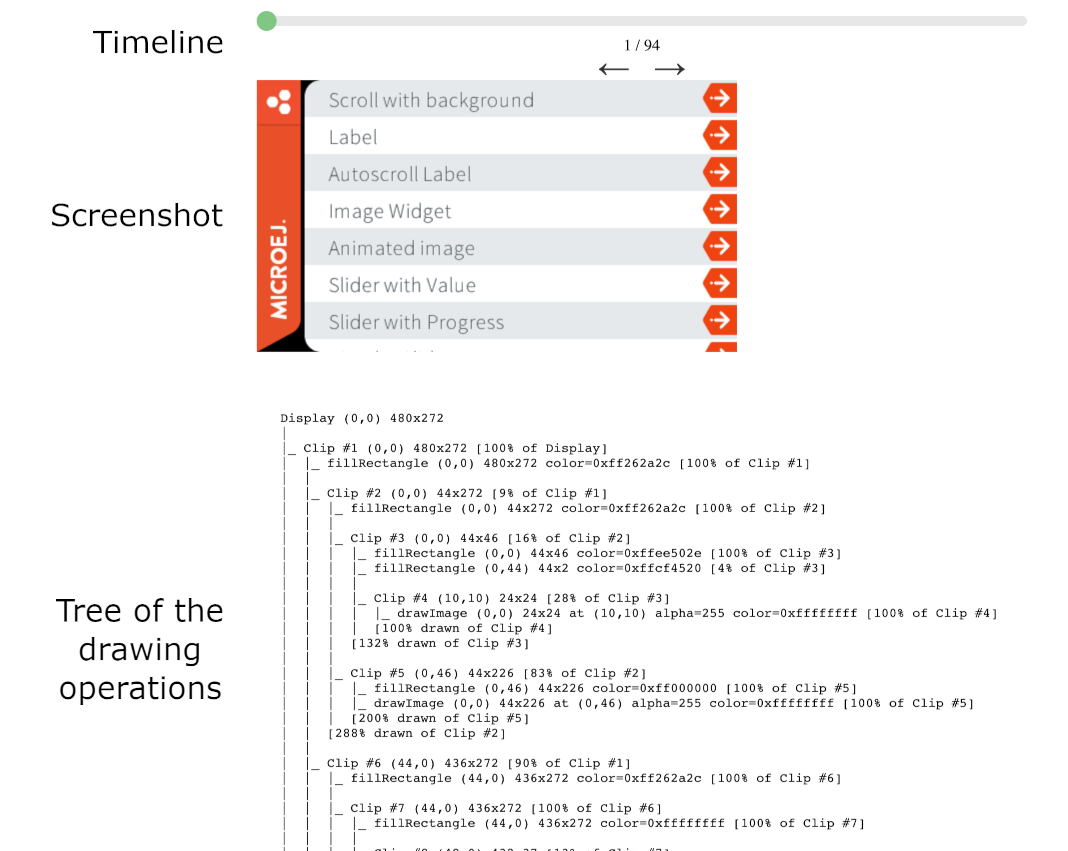
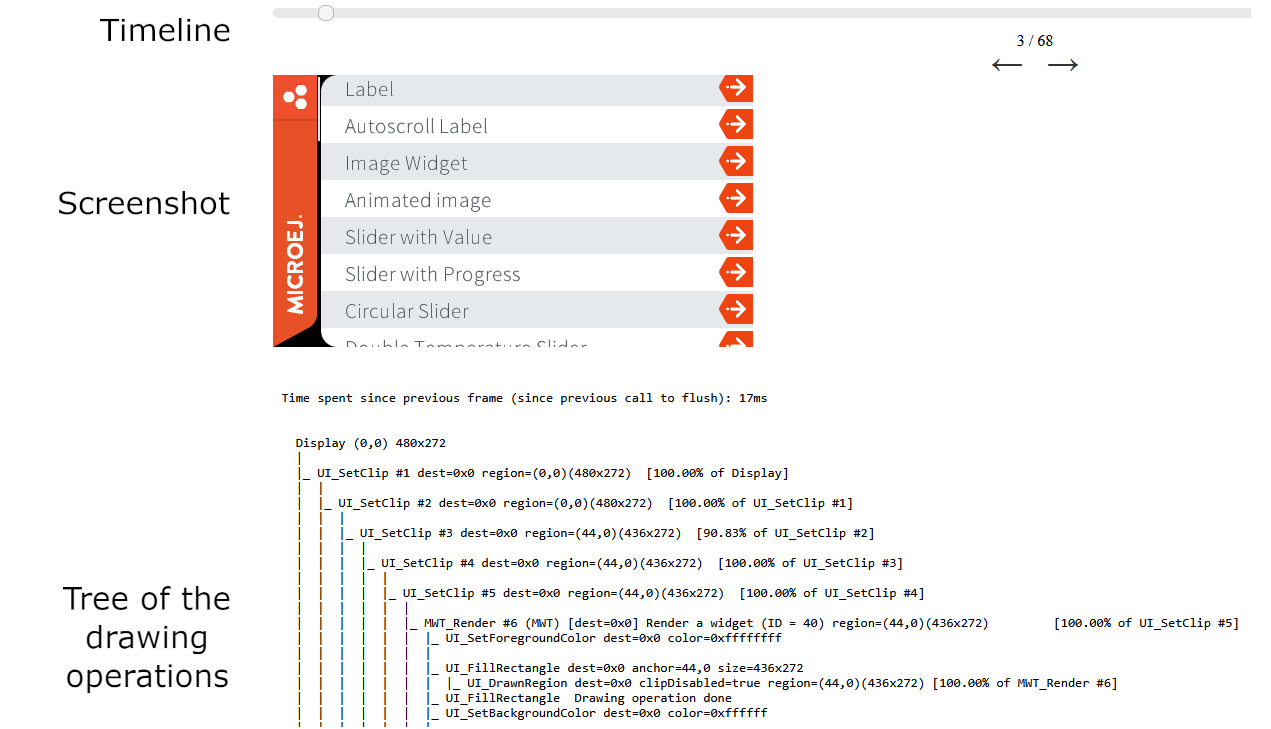
ui pack 14.4.0

diff --git a/VEEPortingGuide/uiReleaseNotes.rst b/VEEPortingGuide/uiReleaseNotes.rst
@@ -18,7 +18,7 @@ Standard Versions
 +-----------------+--------------------+---------------------------------------------------------+
 | UI Pack Range   | Architecture Range | Comment                                                 |
 +=================+====================+=========================================================+
-| [13.5.0-14.3.3] | [7.16.0-9.0.0[     | Compatibility with Architecture 8                       |
+| [13.5.0-14.4.0] | [7.16.0-9.0.0[     | Compatibility with Architecture 8                       |
 +-----------------+--------------------+---------------------------------------------------------+
 | [13.0.0-13.4.1] | [7.16.0-8.0.0[     | SNI 1.3                                                 |
 +-----------------+--------------------+---------------------------------------------------------+
@@ -60,7 +60,7 @@ The following table describes Foundation Libraries API versions implemented in M
    * - UI Pack Range
      - MicroUI
      - Drawing
-   * - [14.1.1-14.3.3]
+   * - [14.1.1-14.4.0]
      - `3.6.0 <https://repository.microej.com/modules/ej/api/microui/3.6.0/>`_
      - `1.0.4 <https://repository.microej.com/modules/ej/api/drawing/1.0.4/>`_
    * - [14.0.0-14.0.2]
@@ -129,7 +129,7 @@ Display
 +-----------------+------------------------------------------------------------------+
 | UI Pack Range   | Changes                                                          |
 +=================+==================================================================+
-| [14.0.0-14.3.3] | Signature of ``LLUI_DISPLAY_IMPL_flush()`` changed.              |
+| [14.0.0-14.4.0] | Signature of ``LLUI_DISPLAY_IMPL_flush()`` changed.              |
 +-----------------+------------------------------------------------------------------+
 | [13.0.0-13.7.2] | *UI3* format: implement ``LLUI_DISPLAY_impl.h``:                 |
 |                 |                                                                  |
@@ -162,7 +162,7 @@ Input
 +-----------------+------------------------------------------------------------------+
 | UI Pack Range   | Changes                                                          |
 +=================+==================================================================+
-| [13.0.0-14.3.3] | *UI3* format: implement ``LLUI_INPUT_impl.h``:                   |
+| [13.0.0-14.4.0] | *UI3* format: implement ``LLUI_INPUT_impl.h``:                   |
 |                 |                                                                  |
 |                 | * ``void LLUI_INPUT_IMPL_initialize([...]);``                    |
 |                 | * ``jint LLUI_INPUT_IMPL_getInitialStateValue([...]);``          |
@@ -183,7 +183,7 @@ LED
 +-----------------+------------------------------------------------------------------+
 | UI Pack Range   | Changes                                                          |
 +=================+==================================================================+
-| [13.0.0-14.3.3] | *UI3* format: implement ``LLUI_LED_impl.h``:                     |
+| [13.0.0-14.4.0] | *UI3* format: implement ``LLUI_LED_impl.h``:                     |
 |                 |                                                                  |
 |                 | * ``jint LLUI_LED_IMPL_initialize([...]);``                      |
 |                 | * ``jint LLUI_LED_IMPL_getIntensity([...]);``                    |
@@ -226,6 +226,8 @@ When the Front Panel project does not require/use the latest Front Panel UI API,
 +---------------------+-----------------------------+--------------+
 | Widget Module Range | UI Pack Compatibility Range | Repository   |
 +=====================+=============================+==============+
+| 5.3.0               | 14.4.0                      | `Developer`_ |
++---------------------+-----------------------------+--------------+
 | [5.1.0-5.2.0]       | [14.3.1-14.3.3]             | `Developer`_ |
 +---------------------+-----------------------------+--------------+
 | 5.0.0               | 14.3.0                      | `Developer`_ |
@@ -323,7 +325,7 @@ The following table describes the version compatibility between the MicroEJ UI P
 +-----------------+---------------+--------------------------+------------------------------------------+
 | UI Pack         | Chrom-ART     | MicroUI C Module         | Comment                                  |
 +=================+===============+==========================+==========================================+
-| [14.1.1-14.3.3] | 7.0.0         | Identical to the UI Pack | Font extensibility                       |
+| [14.1.1-14.4.0] | 7.0.0         | Identical to the UI Pack | Font extensibility                       |
 +-----------------+---------------+--------------------------+------------------------------------------+
 | [14.0.1-14.0.2] | [5.0.1-6.0.0] | [4.0.1-4.1.0]            | C modules harmonization                  |
 +-----------------+---------------+--------------------------+------------------------------------------+
@@ -352,7 +354,7 @@ The following table describes the version compatibility between the MicroEJ UI P
 +-----------------+---------------+--------------------------+------------------------------------------+
 | UI Pack         | VGLite        | MicroUI C Module         | Comment                                  |
 +=================+===============+==========================+==========================================+
-| [14.1.1-14.3.3] | 10.0.0        | Identical to the UI Pack | Font extensibility                       |
+| [14.1.1-14.4.0] | 10.0.0        | Identical to the UI Pack | Font extensibility                       |
 +-----------------+---------------+--------------------------+------------------------------------------+
 | [14.0.1-14.0.2] | 9.0.0         | 4.1.0                    | VG Pack extensibility                    |
 +-----------------+---------------+--------------------------+------------------------------------------+
@@ -392,7 +394,7 @@ The following table describes the version compatibility between the MicroEJ UI P
 +-----------------+---------+--------------------------+------------------------------+
 | UI Pack         | NemaGFX | MicroUI C Module         | Comment                      |
 +=================+=========+==========================+==============================+
-| [14.1.1-14.3.3] | 4.0.0   | Identical to the UI Pack | Font extensibility           |
+| [14.1.1-14.4.0] | 4.0.0   | Identical to the UI Pack | Font extensibility           |
 +-----------------+---------+--------------------------+------------------------------+
 | [14.0.1-14.0.2] | 3.0.0   | 4.1.0                    | VG Pack extensibility        |
 +-----------------+---------+--------------------------+------------------------------+

diff --git a/ApplicationDeveloperGuide/UI/Simulation/flush-visualizer.rst b/ApplicationDeveloperGuide/UI/Simulation/flush-visualizer.rst
@@ -30,21 +30,40 @@ Consider this part of the tree:
 
 .. code::
 
-  |  |  |_ Clip #3 (0,0) 44x46 [16% of Clip #2]
-  |  |  |  |_ fillRectangle (0,0) 44x46 color=0xffee502e [100% of Clip #3]
-  |  |  |  |_ fillRectangle (0,44) 44x2 color=0xffcf4520 [4% of Clip #3]
+  |_ UI_SetClip #10 dest=0x0 region=(0,0)(44x46)  [16.91% of UI_SetClip #9]
+  |  |
+  |  |_ MWT_Render #11 (MWT) [dest=0x0] Render a widget (ID = 61) region=(0,0)(44x46)         [100.00% of UI_SetClip #10]
+  |  |  |_ UI_SetForegroundColor dest=0x0 color=0xffee502e
+  |  |  |
+  |  |  |_ UI_FillRectangle dest=0x0 anchor=0,0 size=44x46 
+  |  |  |  |_ UI_DrawnRegion dest=0x0 clipDisabled=true region=(0,0)(44x46) [100.00% of MWT_Render #11]
+  |  |  |_ UI_FillRectangle  Drawing operation done
+  |  |  |_ UI_SetForegroundColor dest=0x0 color=0xffcf4520
+  |  |  |
+  |  |  |_ UI_FillRectangle dest=0x0 anchor=0,44 size=44x2 
+  |  |  |  |_ UI_DrawnRegion dest=0x0 clipDisabled=true region=(0,44)(44x2) [4.35% of MWT_Render #11]
+  |  |  |_ UI_FillRectangle  Drawing operation done
+  |  |  |
+  |  |  |_ UI_SetClip #12 dest=0x0 region=(0,0)(44x44)  [95.65% of MWT_Render #11]
   |  |  |  |
-  |  |  |  |_ Clip #4 (10,10) 24x24 [28% of Clip #3]
-  |  |  |  |  |_ drawImage (0,0) 24x24 at (10,10) alpha=255 color=0xffffffff [100% of Clip #4]
-  |  |  |  |  [100% drawn of Clip #4]
-  |  |  |  [132% drawn of Clip #3]
+  |  |  |  |_ UI_SetClip #13 dest=0x0 region=(10,10)(24x24)  [29.75% of UI_SetClip #12]
+  |  |  |  |  |_ UI_SetForegroundColor dest=0x0 color=0xffffffff
+  |  |  |  |  |
+  |  |  |  |  |_ UI_DrawImage dest=0x0 image=0x3 from 0,0 size=24x24 anchor=10,10 alpha=255 
+  |  |  |  |  |  |_ UI_DrawnRegion dest=0x0 clipDisabled=true region=(10,10)(24x24) [100.00% of UI_SetClip #13]
+  |  |  |  |  |_ UI_DrawImage  Drawing operation done
+  |  |  |  |  [100.00% drawn of UI_SetClip #13]
+  |  |  |  [29.75% drawn of UI_SetClip #12]
+  |  |  [132.81% drawn of MWT_Render #11]
+  |  |_ MWT_Render  (MWT) Widget render done (ID = 61)
+  |  [132.81% drawn of UI_SetClip #10]
 
 We can see that:
 
-- The clip #3 is 16% of the clip #2.
-- It draws 2 rectangles and an image that take respectively 100%, 4% and 100% of their parent region.
-- The clip #4 is fully covered by the image (100%).
-- The clip #3 is covered at 132% (100% for the 1st rectangle, 4% for the 2nd, 28% for the clip #4 and its inner image).
+- The MWT_Render #11 is 100% of the clip #10, which is 16.91% of the clip #9.
+- It draws 2 rectangles and an image that take respectively 100%, 4.35% and 100% of their parent region.
+- The clip #13 is fully covered by the image (100%).
+- The clip #10 is covered at 132.81%: 100% for the 1st rectangle, 4.35% for the 2nd, 28.46% for the clip #12 and its inner image (29.75 x 95.65%)
 
 A value of 100% indicates that the area drawn is equivalent to the surface of the region.
 A value of 200% indicates that the area drawn is equivalent to twice the surface of the region.
@@ -59,6 +78,8 @@ Use :ref:`systemview` to identify the bottlenecks in your application on the emb
 A total area drawn over 200% is inefficient, but your application may have bigger bottlenecks.
 Confirm it by measuring the time spent drawing vs. the time spent elsewhere between flushes.
 
+.. _flush_visualizer_install:
+
 Installation
 ------------
 
@@ -66,7 +87,12 @@ The Flush Visualizer option is available for the ``Display`` widget in
 `frontpanel widget module <https://forge.microej.com/artifactory/microej-developer-repository-release/ej/tool/frontpanel/widget/>`__
 version 4.+ for UI Pack 14.0.0 or later.
 
-Set the option ``ej.fp.display.flushVisualizer`` to ``true`` to enable the flush visualizer.
+Set the following options:
+
+- ``ej.fp.display.flushVisualizer`` to ``true`` to enable the Flush Visualizer (screenshots only since UI Pack 14.4.0)
+- ``core.trace.enabled`` and ``core.trace.autostart``  to ``true`` to enable and catch the traces in the Flush Visualizer (tree of drawing operations)
+
+.. note:: Only the traces that target the display are shown in the tree; all other traces (drawings in buffered images and third-party traces of the other libraries) are dropped.
 
 Refer to the :ref:`application_options` documentation to set the option.
 

diff --git a/VEEPortingGuide/vgReleaseNotes.rst b/VEEPortingGuide/vgReleaseNotes.rst
@@ -15,7 +15,7 @@ The following table describes the compatibility ranges between VG and UI Packs.
 +---------------+-----------------+----------------------------------+
 | VG Pack Range | UI Pack Range   | Comment                          |
 +===============+=================+==================================+
-| 1.7.0         | [14.1.1-14.3.3] | MicroUI Font extensibility       |
+| 1.7.0         | [14.1.1-14.4.0] | MicroUI Font extensibility       |
 +---------------+-----------------+----------------------------------+
 | [1.5.0-1.6.0] | [14.0.0-15.0.0[ | UI Pack major version            |
 +---------------+-----------------+----------------------------------+
@@ -85,7 +85,7 @@ The following table describes the version compatibility between the MicroEJ VG P
 +---------------+-----------------+---------------+-----------+------------------+------------------+---------------+---------------+----------------------------+
 | VG Pack       | UI Pack         | VG-VGLite     | UI-VGLite | MicroVG C Module | MicroUI C Module | FreeType      | HarfBuzz      | Comment                    |
 +===============+=================+===============+===========+==================+==================+===============+===============+============================+
-| [1.5.0-1.7.0] | [14.1.1-14.3.3] | 9.0.0         | 10.0.0    | 7.0.0            | [14.1.1-14.3.3]  | [3.0.0-4.0.0] | [2.0.0-3.0.0] | MicroUI Font extensibility |
+| [1.5.0-1.7.0] | [14.1.1-14.4.0] | 9.0.0         | 10.0.0    | 7.0.0            | [14.1.1-14.4.0]  | [3.0.0-4.0.0] | [2.0.0-3.0.0] | MicroUI Font extensibility |
 +---------------+-----------------+---------------+-----------+------------------+------------------+---------------+---------------+----------------------------+
 | 1.6.0         | [14.0.1-14.0.2] | 8.0.1         | 9.0.0     | 6.0.1            | 4.1.0            | [3.0.0-4.0.0] | [2.0.0-3.0.0] | VG Pack extensibility      |
 +---------------+-----------------+---------------+-----------+------------------+------------------+---------------+---------------+----------------------------+
@@ -119,7 +119,7 @@ The following table describes the version compatibility between the MicroEJ VG P
 +---------------+-----------------+-----------+---------+------------------+------------------+---------------+---------------+----------------------------+
 | VG Pack       | UI Pack         | VG-NemaVG | UI-Nema | MicroVG C Module | MicroUI C Module | FreeType      | HarfBuzz      | Comment                    |
 +===============+=================+===========+=========+==================+==================+===============+===============+============================+
-| [1.6.0-1.7.0] | [14.1.1-14.3.3] | 2.0.0     | 4.0.0   | 7.0.0            | [14.1.1-14.3.3]  | [3.0.0-4.0.0] | [2.0.0-3.0.0] | MicroUI Font extensibility |
+| [1.6.0-1.7.0] | [14.1.1-14.4.0] | 2.0.0     | 4.0.0   | 7.0.0            | [14.1.1-14.4.0]  | [3.0.0-4.0.0] | [2.0.0-3.0.0] | MicroUI Font extensibility |
 +---------------+-----------------+-----------+---------+------------------+------------------+---------------+---------------+----------------------------+
 | 1.6.0         | [14.0.1-14.0.2] | 1.0.1     | 3.0.0   | 6.0.1            | 4.1.0            | [3.0.0-4.0.0] | [2.0.0-3.0.0] |                            |
 +---------------+-----------------+-----------+---------+------------------+------------------+---------------+---------------+----------------------------+

diff --git a/VEEPortingGuide/uiMigrationGuide.rst b/VEEPortingGuide/uiMigrationGuide.rst
@@ -6,6 +6,20 @@
 Migration Guide
 ===============
 
+.. _section_ui_migrationguide_pack_14.4.0:
+
+From 14.3.3 to 14.4.0
+=====================
+
+Front Panel
+"""""""""""
+
+* Fetch `Front Panel Widgets 5.3.0`_ (see :ref:`section_frontpanel_ui_dependencies`).
+* To enable all Flush Visualizer functionalities, set the properties ``core.trace.enabled`` and ``core.trace.autostart``  to ``true`` (see :ref:`flush_visualizer_install`).
+
+.. XXX_TODO link
+.. _Front Panel Widgets 5.3.0: https://forge.microej.com/ui/repos/tree/General/microej-developer-repository-release/ej/tool/frontpanel/widget/5.1.0/
+
 .. _section_ui_migrationguide_pack_14.3.3:
 
 From 14.2.0 to 14.3.3
@@ -18,7 +32,6 @@ Front Panel
 
 .. XXX_TODO link
 .. _Front Panel Widgets 5.2.0: https://forge.microej.com/ui/repos/tree/General/microej-developer-repository-release/ej/tool/frontpanel/widget/5.1.0/
-.. _UI Pack 14.3.3: https://repository.microej.com/modules/com/microej/pack/ui/ui-pack/14.3.2/
 
 .. _section_ui_migrationguide_pack_14.2.0:
 

diff --git a/VEEPortingGuide/uiReplaces.rst b/VEEPortingGuide/uiReplaces.rst
@@ -1,7 +1,7 @@
 
-.. |UIPACKVERSION| replace:: 14.3.3
+.. |UIPACKVERSION| replace:: 14.4.0
 .. |FPFRAMEWORKVERSION| replace:: 1.3.0
-.. |FPWIDGETSVERSION| replace:: 5.2.0
+.. |FPWIDGETSVERSION| replace:: 5.3.0
 .. |MICROUIVERSION| replace:: 3.6.0
 
 .. |VGPACKVERSION| replace:: 1.7.0
@@ -14,6 +14,7 @@
 .. _MicroVG API 1.4: https://repository.microej.com/modules/ej/api/microvg/1.4.0/
 
 .. TODO_XXX link
+.. _C Module MicroUI 14.4.0: https://repository.microej.com/modules/com/microej/clibrary/llimpl/microui/14.3.2/
 .. _C Module MicroUI 14.3.3: https://repository.microej.com/modules/com/microej/clibrary/llimpl/microui/14.3.2/
 .. _C Module MicroUI 14.3.2: https://repository.microej.com/modules/com/microej/clibrary/llimpl/microui/14.3.2/
 .. _C Module MicroUI 14.2.0: https://repository.microej.com/modules/com/microej/clibrary/llimpl/microui/14.2.0/

diff --git a/VEEPortingGuide/uiChangeLog.rst b/VEEPortingGuide/uiChangeLog.rst
@@ -6,6 +6,18 @@
 Changelog
 =========
 
+.. _section_ui_changelog_14_4_0:
+
+[14.4.0] - _XXX_TODO_
+=====================
+
+FrontPanel
+""""""""""
+
+**Changed**
+
+- Improve the content of the tree of the drawing operations in the Flush Visualizer.
+
 .. _section_ui_changelog_14_3_3:
 
 [14.3.3] - 2025-02-18
